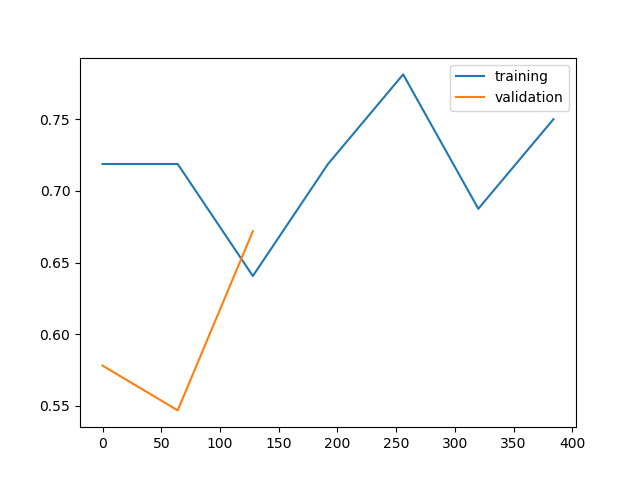
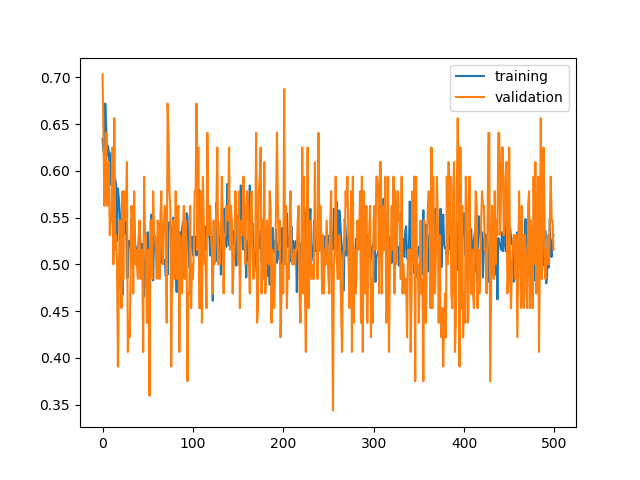
update pelican

diff --git a/ml/pelican_CNN.py b/ml/pelican_CNN.py
@@ -81,6 +81,7 @@ def predictLabel(X, bt, y_output, xtest, ytest, train=True, score=None):
         weights = {'W_conv1':tf.Variable(tf.random_normal([1,5,1,32])),
                    'W_conv2':tf.Variable(tf.random_normal([1,5,32,64])),
                    'W_conv3':tf.Variable(tf.random_normal([1,5,64,128])),
+                   'W_conv4':tf.Variable(tf.random_normal([1,5,128,256])),
                   
                    'W_fc':tf.Variable(tf.random_normal([9600,1024])),
                    'out':tf.Variable(tf.random_normal([1024, n_classes]))}
@@ -88,29 +89,31 @@ def predictLabel(X, bt, y_output, xtest, ytest, train=True, score=None):
         biases = {'b_conv1':tf.Variable(tf.random_normal([32])),
                    'b_conv2':tf.Variable(tf.random_normal([64])),
                    'b_conv3':tf.Variable(tf.random_normal([128])),
-    
+                   'b_conv4':tf.Variable(tf.random_normal([256])),
                    
                    'b_fc':tf.Variable(tf.random_normal([1024])),
                    'out':tf.Variable(tf.random_normal([n_classes]))}
     
         x = tf.reshape(x, shape=[-1, n_steps, features, 1])
     
-        conv1 = tf.nn.relu(conv2d(x, weights['W_conv1']) + biases['b_conv1'])
+        conv1 = tf.nn.leaky_relu(conv2d(x, weights['W_conv1']) + biases['b_conv1'])
         conv1 = maxpool2d(conv1)
     #    print(conv1.shape) ## uncomment to check the shape of 1st CNN layer
         
-        conv2 = tf.nn.relu(conv2d(conv1, weights['W_conv2']) + biases['b_conv2'])
+        conv2 = tf.nn.leaky_relu(conv2d(conv1, weights['W_conv2']) + biases['b_conv2'])
         conv2 = maxpool2d(conv2)
     #    print(conv2.shape) ## uncomment to check the shape of 1st CNN layer
-    
-        conv3 = tf.nn.relu(conv2d(conv2, weights['W_conv3']) + biases['b_conv3'])
-        conv3 = maxpool2d(conv3)
+        conv2 = tf.nn.dropout(conv2, keep_rate)
+        conv3 = tf.nn.leaky_relu(conv2d(conv2, weights['W_conv3']) + biases['b_conv3'])
+        #conv3 = maxpool2d(conv3)
     #    print(conv3.shape) ## uncomment to check the shape of 1st CNN layer
     
+        conv4 = tf.nn.leaky_relu(conv2d(conv3, weights['W_conv4']) + biases['b_conv4'])
+
         #conv2 == tf.contrib.layers.flatten(conv2)
         #print(conv2.shape)
-        conv3s = conv3.get_shape().as_list()
-        fc = tf.reshape(conv3,[-1, conv3s[1]*conv3s[2]*conv3s[3]])
+        conv3s = conv4.get_shape().as_list()
+        fc = tf.reshape(conv4,[-1, conv3s[1]*conv3s[2]*conv3s[3]])
         print(fc.shape)
         #fc = tf.nn.relu(tf.matmul(fc, weights['W_fc'])+biases['b_fc'])
         fc = tf.nn.relu(fc)
@@ -136,8 +139,9 @@ def predictLabel(X, bt, y_output, xtest, ytest, train=True, score=None):
             cost = tf.reduce_mean( tf.nn.softmax_cross_entropy_with_logits(logits=prediction,labels=y) )
         
         with tf.name_scope('OPtimizer'):
-            #optimizer = tf.train.AdamOptimizer().minimize(cost)
-            optimizer = tf.train.GradientDescentOptimizer(learning_rate=0.001).minimize(cost)
+            optimizer = tf.train.AdamOptimizer().minimize(cost)
+            #optimizer = tf.train.GradientDescentOptimizer(learning_rate=0.005).minimize(cost)
+            #optimizer = tf.train.MomentumOptimizer(learning_rate=0.001, momentum=0.001, use_nesterov=True).minimize(cost)
     
         with tf.name_scope('Accuracy'):
         # # Accuracy
@@ -164,7 +168,6 @@ def predictLabel(X, bt, y_output, xtest, ytest, train=True, score=None):
     #               print(prediction)
             #preds=tf.nn.softmax(prediction)
 #               print("Label:" + str(preds.eval(feed_dict={x: test_X})))
-            
         
             if train:
                 batches = batch(testX, y_output, v_batch_size)
@@ -172,37 +175,49 @@ def predictLabel(X, bt, y_output, xtest, ytest, train=True, score=None):
                 loss_list = []
                 lc_acc_train_x, lc_acc_train_y = [], []
                 lc_acc_test_x, lc_acc_test_y = [], []
-                for epoch in range(250):
+                for epoch in range(500):
+                    accuracy = 0
                     for _ in range(len(batches)):
                         test_X, y_batch = batches[_][0], batches[_][1]
                         #train first
                         op, loss = sess.run((optimizer, cost), feed_dict={x: test_X, y: y_batch})
                         loss_list.append(loss)
                         #get test data
-                        accuracy = acc.eval(feed_dict={x: test_X, y: y_batch.reshape(v_batch_size,2)})
-                        lcc_acc_train_y.append(accuracy)
-                        print("train ", accuracy)
+                        accuracy += acc.eval(feed_dict={x: test_X, y: y_batch.reshape(v_batch_size,2)})
+                        
+
+                    lc_acc_train_y.append(accuracy / len(batches))
+                    print(epoch, " epoch train ", (accuracy/len(batches)))
                     
+                    accuracy = 0
                     for _ in range(len(test_batches)):
                         test_X, y_batch = test_batches[_][0], test_batches[_][1]
-                        accuracy = acc.eval(feed_dict={x: test_X, y: y_batch})
-                        
-                        
+                        accuracy += acc.eval(feed_dict={x: test_X, y: y_batch})
+
+
+                    lc_acc_test_y.append(accuracy / len(test_batches))
                     lc_acc_test_x.append(epoch)
-                    print("test acc ", accuracy)
+                    print(epoch, " epoch test acc ", (accuracy/ len(test_batches)))
                     
 
-                plt.plot(lc_acc_train_x, lc_acc_train_y, label="training")
-                plt.plot(lc_acc_test_x, lc_acc_test_y, label="validation")
-                    
+                #stabilize learning curves
+                lc_acc_test_x = np.linspace(0, 500, num=20).tolist()
+                train_y_val = []
+                test_y_val = []
+                for index in lc_acc_test_x:
+                    train_y_val.append(lc_acc_train_y[index])
+                    test_y_val.append(lc_acc_test_y[index])
 
-                '''
+                plt.plot(lc_acc_test_x, train_y_val, label="training")
+                plt.plot(lc_acc_test_x, test_y_val, label="validation")
+                    
+                
                 plt.legend()
                 plt.savefig("./results/PelicanLC.png")
                 plt.show()
-                '''
+                
                 #add to scores
-                score.append([lc_acc_train_x, lc_acc_train_y, lc_acc_test_x, lc_acc_test_y])
+                #score.append([lc_acc_train_x, lc_acc_train_y, lc_acc_test_x, lc_acc_test_y])
 
             else:
                 saver.restore(sess,dir +'/')

diff --git a/main.py b/main.py
@@ -226,13 +226,13 @@ kneighbors = knn.createKNN()
 lcurve.createLearningCurve(kneighbors.knn, x, y, name="knn")
 
 ##################   Call CNN   #######################
-
+'''
 x, y = getCnnData()
 x, y = signal.signal_data(x, y)
 model = cnn.createCNN(x, y, 10)
 #model.run_model()
 model = model.single_run(f=80, a='relu', k=20)
-
+'''
 lcurve.createLearningCurve(model, x, y, keras=True, name="CNN")
 
 #call learning curve
@@ -272,7 +272,7 @@ cnn.createCNN(x, y, 3).ImageCNN(paths)
 stats.std_deviation_distribution(x, y)
 stats.signal_amplitude_mean(x, y)
 
-'''
+
 x, y = getCnnData()
 x, y = signal.signal_data(x, y)
 #fourier.read_signal(x, y)
@@ -281,7 +281,7 @@ x, y = signal.signal_data(x, y)
 lstmNet = rnn.createRNN(x, y)
 batch, batchy, test, test_out = lstmNet.createBatchData()
 model = lstmNet.prepareRNN(batch, batchy)
-'''
+
 #lstmNet.runLSTM(model)
 
 '''

diff --git a/ml/cnn.py b/ml/cnn.py
@@ -180,7 +180,7 @@ class createCNN():
                 sc = pelican.predictLabel(self.xtrain[i], 64, self.ytrain[i], self.xtest[i], self.ytest[i], score=sc)
 
             #plot real learning curves
-            lc.createLearningCurve(None, None, None, None, name="Pelican", is_estimator=False, scores=sc)
+            #lc.createLearningCurve(None, None, None, None, name="Pelican", is_estimator=False, scores=sc)
             return
 
         model = self.build_seq_model(filter=f, kernel=k, activator=a, optimize=optimizers)

diff --git a/ml/rnn.py b/ml/rnn.py
@@ -22,6 +22,13 @@ class createRNN():
         #function to auto tune network 
         pass
 
+    def getRNNCells(self, layers=1, lstm=False, n_neurons=20, activate=tf.nn.leaky_relu):
+        if lstm:
+            cell = tf.contrib.rnn.BasicLSTMCell(num_units=n_neurons, activation=activate, state_is_tuple=False)
+        #create multilyaer stack
+        if layers != 1:
+            pass
+
     #todo scale inputs
     def runRecurrentNet(self, inputs, y_output, xtest, ytest):
         tf.reset_default_graph()

diff --git a/ml/fourier.py b/ml/fourier.py
@@ -13,7 +13,7 @@ def get_images(signal, output):
         #y = y_value_signal(sig)
         y = np.exp(2j * np.pi * sig / len(sig))
     
-        y = fft(y)
+        #y = fft(y)
         plt.grid()
         plt.plot(x_axis, y)
 
